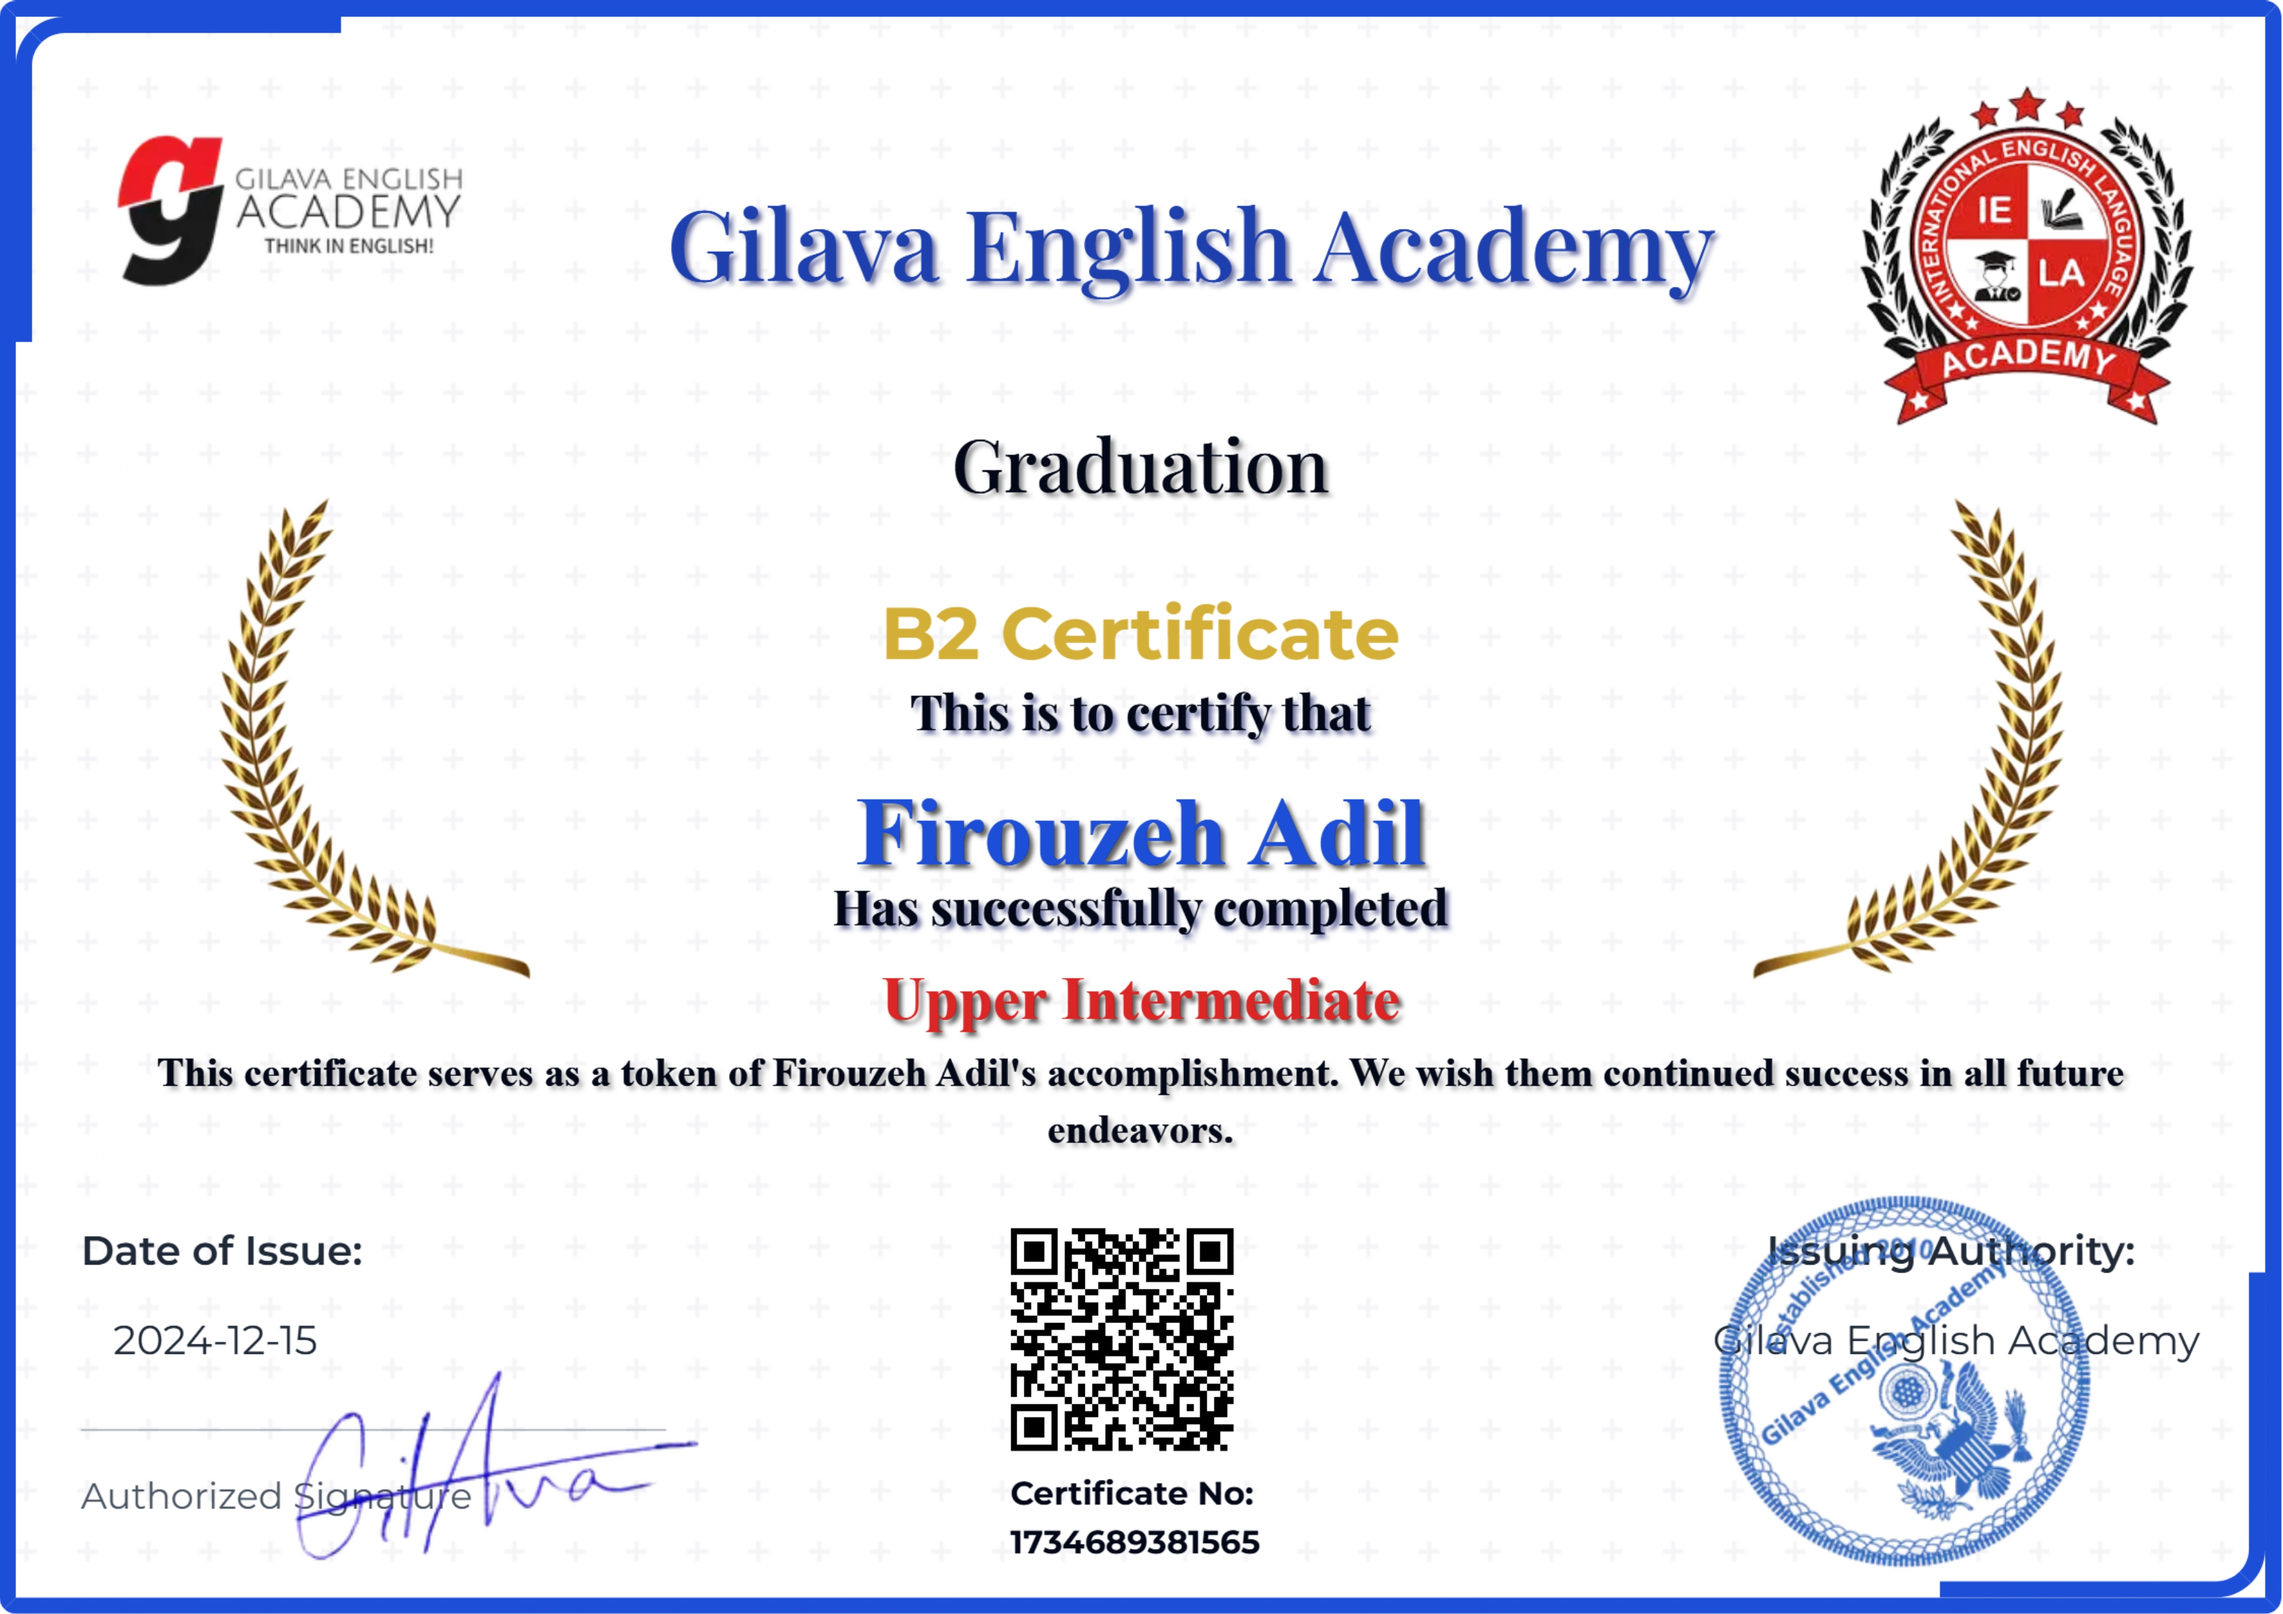
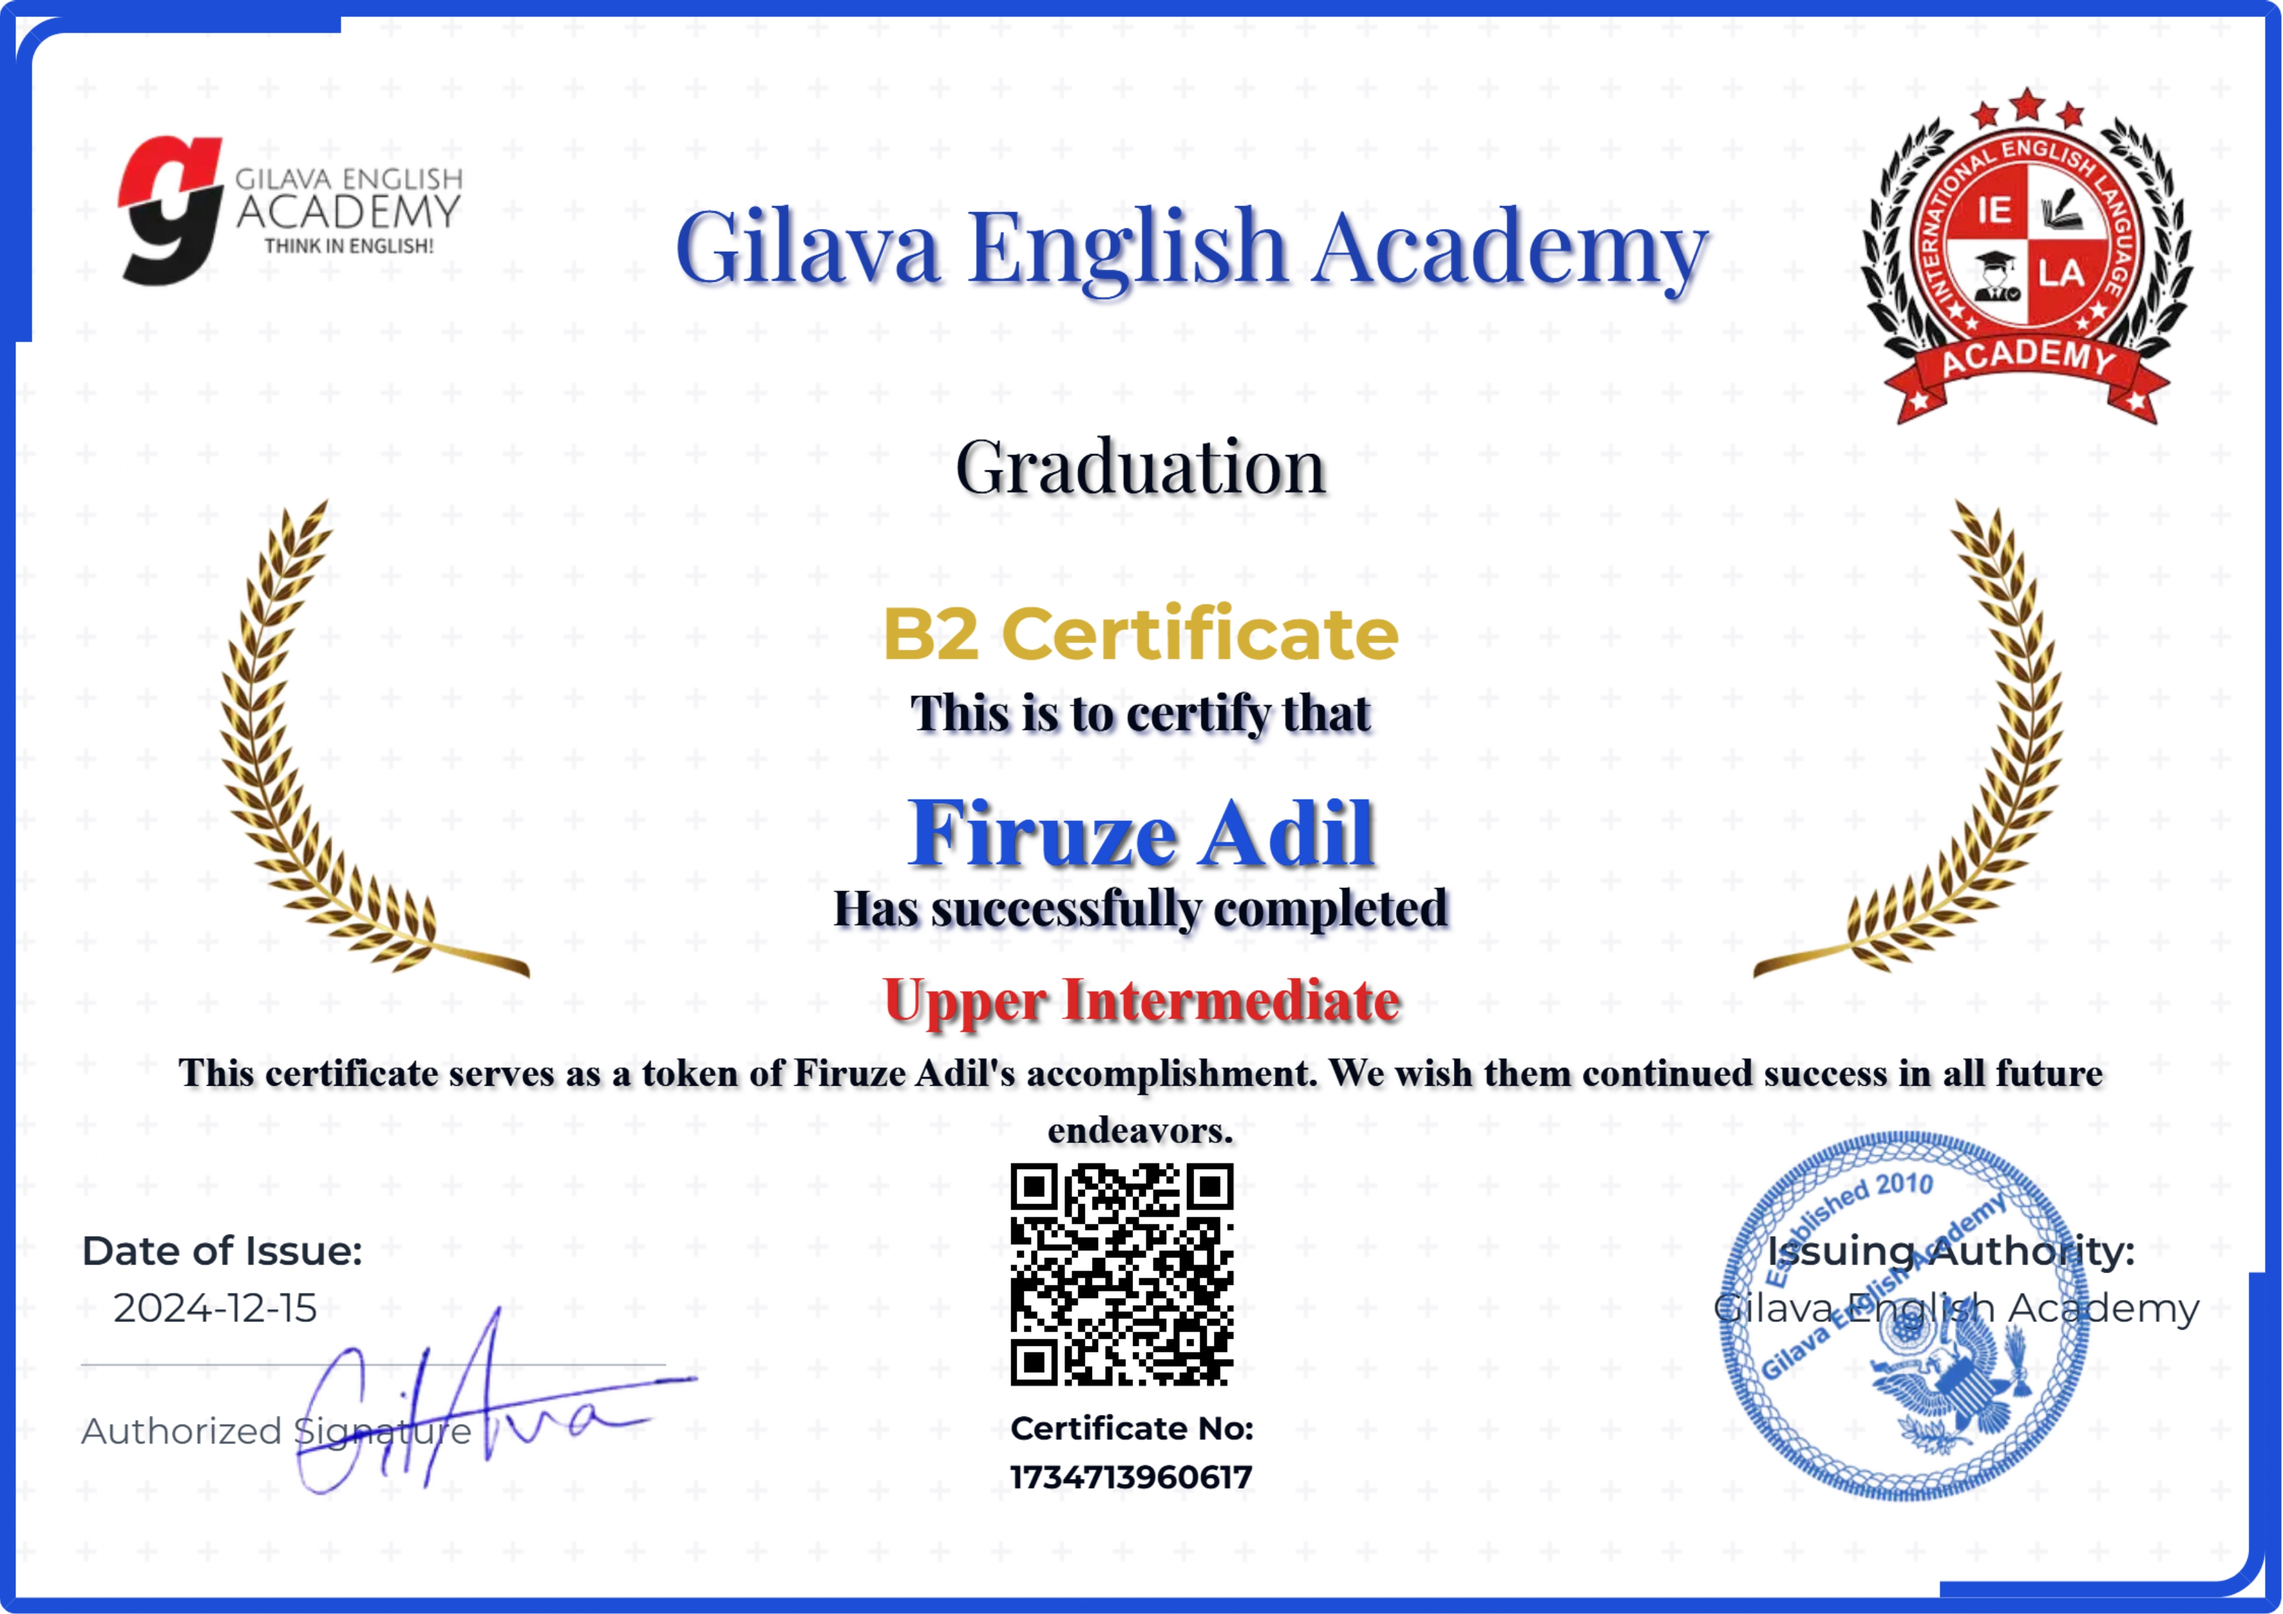
Api and verify update

diff --git a/app/verify/1734713960617/page.tsx b/app/verify/1734713960617/page.tsx
@@ -1,0 +1,46 @@
+'use client'
+
+import { Button } from '@/components/ui/button'
+import { Input } from '@/components/ui/input'
+import dynamic from 'next/dynamic'
+import { useState } from 'react'
+
+const ImageViewer = dynamic(() => import('@/components/ImageViewer'), {
+  ssr: false,
+  loading: () => <p>Loading Certificate...</p>
+})
+
+export default function VerifyPage() {
+  const [imagePaths, setImagePaths] = useState([
+    '/img19.jpg',
+   
+  ])
+  const [newImagePath, setNewImagePath] = useState('')
+
+
+  const handleResetImages = () => {
+    setImagePaths([
+      '/img19.jpg',
+   
+    ])
+  }
+
+  return (
+    <div className="max-w-6xl mx-auto p-4">
+      <h1 className="text-xl font-bold mb-8 text-center text-blue-800">Certificate Verification</h1>
+      <div className="mb-4 flex gap-2">
+        <Input 
+          type="text" 
+          value={newImagePath} 
+          onChange={(e) => setNewImagePath(e.target.value)}
+          placeholder="Enter image path (e.g., /sample-certificate-4.jpg)"
+        />
+        <Button onClick={handleResetImages} variant="outline">Reset</Button>
+      </div>
+      <div className="bg-white rounded-lg shadow-lg p-6">
+        <ImageViewer imagePaths={imagePaths} />
+      </div>
+    </div>
+  )
+}
+

diff --git a/pages/api/hello.js b/pages/api/hello.js
@@ -1,0 +1,10 @@
+// pages/api/hello.js
+
+export default function handler(req, res) {
+    if (req.method === 'GET') {
+      res.status(200).json({ message: 'Hello from server!' })
+    } else {
+      res.status(405).json({ error: 'Method Not Allowed' })
+    }
+  }
+  
